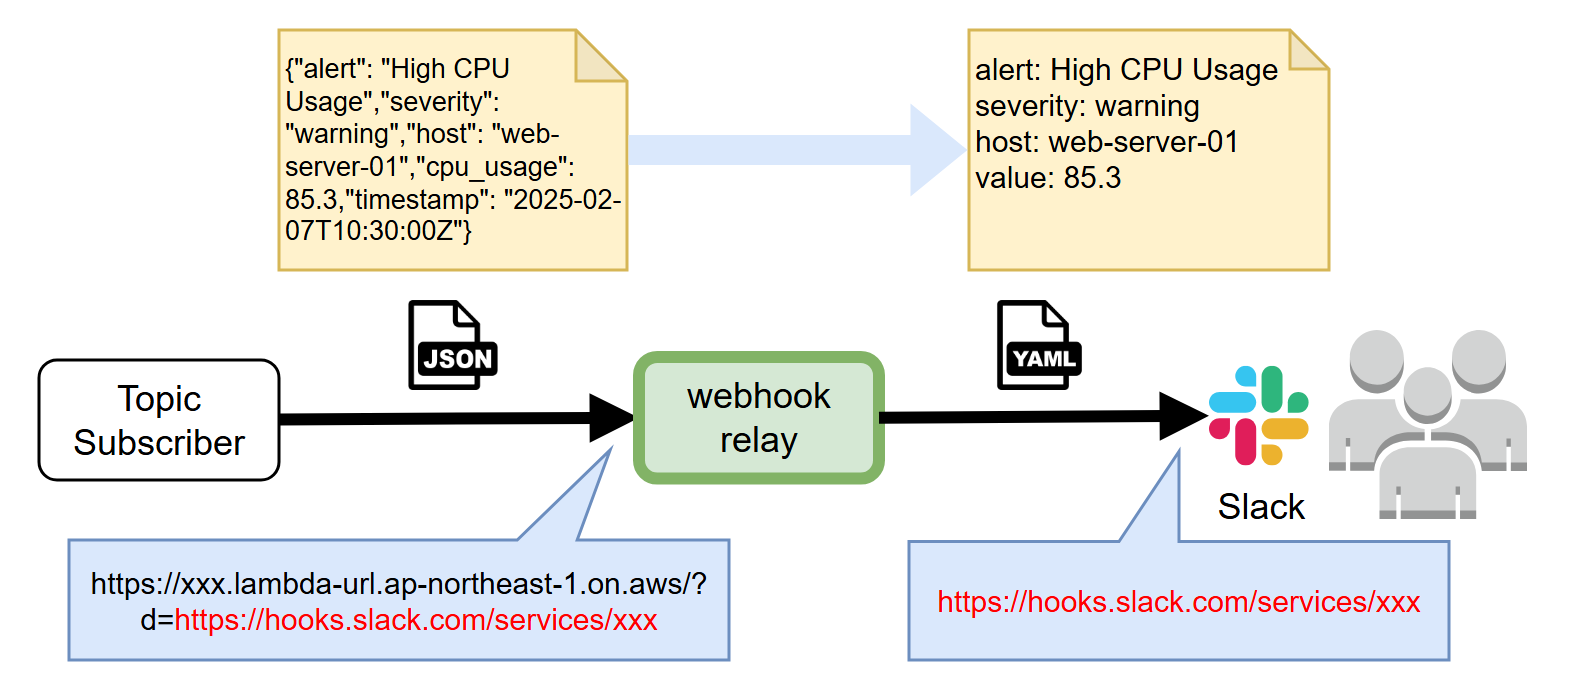
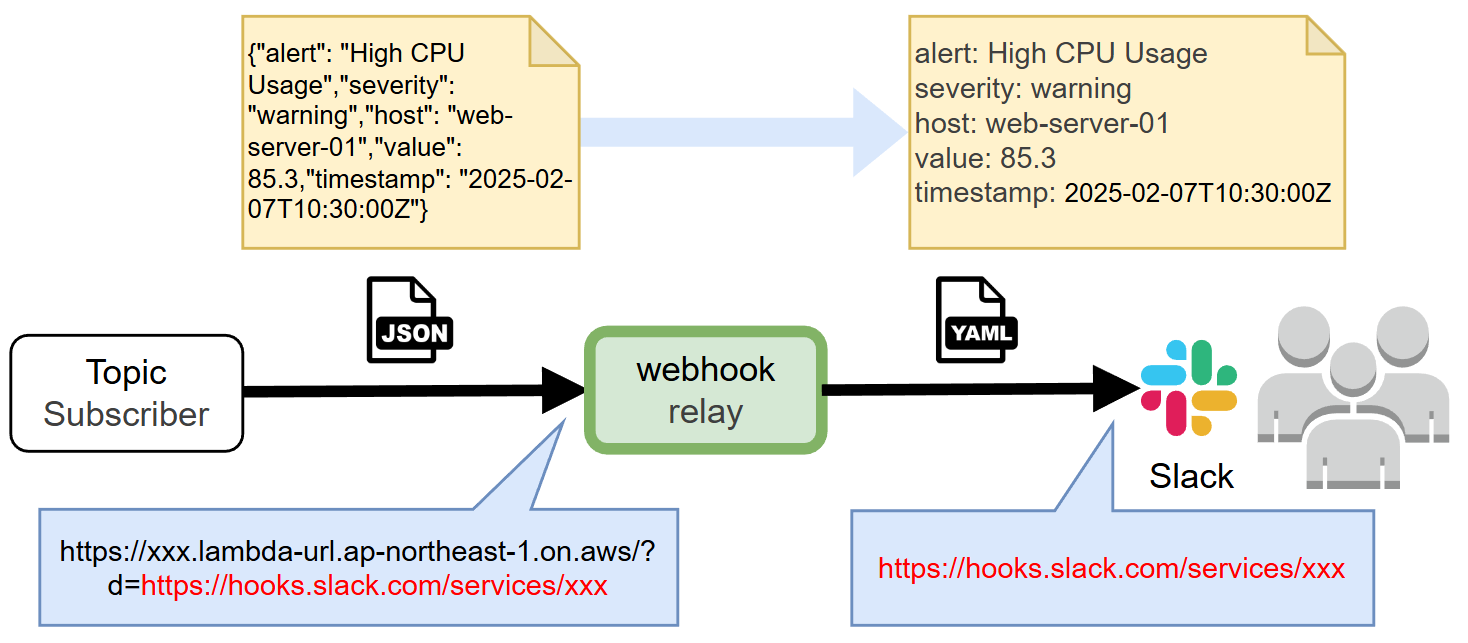
update: add mode parameter instead of simple

Changed region(s): [[0.0, 0.0, 1.0, 0.9953], [0.0, 0.7776, 0.4905, 0.9953]]

diff --git a/src/handler.js b/src/handler.js
@@ -90,14 +90,15 @@ function formatYamlForSlack(yamlContent) {
  * Create Slack message payload
  * @param {string} content - Original content
  * @param {boolean} isJson - Whether content is JSON
- * @param {boolean} simple - Simple mode (no syntax highlighting)
+ * @param {string} mode - Display mode: 'simple' (code block only), 'block' (blocks without attachment), 'attachments' (with color sidebar)
  * @returns {object} Slack payload
  */
-function createSlackPayload(content, isJson = false, simple = false) {
+function createSlackPayload(content, isJson = false, mode = "block") {
   if (isJson) {
     const yamlContent = convertJsonToYaml(content);
+
     // Simple mode: code block only
-    if (simple) {
+    if (mode === "simple") {
       return {
         text: "Alert Notification",
         blocks: [
@@ -111,43 +112,53 @@ function createSlackPayload(content, isJson = false, simple = false) {
         ],
       };
     }
-    // Normal mode: snippet-style display
+
     const formattedYaml = formatYamlForSlack(yamlContent);
-    // Display snippet-style with Attachment (color sidebar + formatting)
+    const blocks = [
+      {
+        type: "header",
+        text: {
+          type: "plain_text",
+          text: "📋 Alert Details",
+          emoji: true,
+        },
+      },
+      {
+        type: "section",
+        text: {
+          type: "mrkdwn",
+          text: formattedYaml,
+        },
+      },
+      {
+        type: "divider",
+      },
+      {
+        type: "context",
+        elements: [
+          {
+            type: "mrkdwn",
+            text: `📄 Format: YAML | ⏰ ${new Date().toISOString()}`,
+          },
+        ],
+      },
+    ];
+
+    // Block mode: blocks without attachment (no color sidebar)
+    if (mode === "block") {
+      return {
+        text: "🚨 Alert Notification",
+        blocks: blocks,
+      };
+    }
+
+    // Attachments mode: snippet-style display with color sidebar
     return {
       text: "🚨 Alert Notification",
       attachments: [
         {
           color: "#ff6b6b",
-          blocks: [
-            {
-              type: "header",
-              text: {
-                type: "plain_text",
-                text: "📋 Alert Details",
-                emoji: true,
-              },
-            },
-            {
-              type: "section",
-              text: {
-                type: "mrkdwn",
-                text: formattedYaml,
-              },
-            },
-            {
-              type: "divider",
-            },
-            {
-              type: "context",
-              elements: [
-                {
-                  type: "mrkdwn",
-                  text: `📄 Format: YAML | ⏰ ${new Date().toISOString()}`,
-                },
-              ],
-            },
-          ],
+          blocks: blocks,
         },
       ],
     };
@@ -253,12 +264,14 @@ async function handler(event) {
       };
     }
 
-    // Get simple mode flag
-    const simpleMode =
-      event.queryStringParameters?.simple === "true" ||
-      event.query?.simple === "true" ||
+    // Get mode parameter (simple, block, attachments)
+    // Default is 'block'
+    const mode =
+      event.queryStringParameters?.mode ||
+      event.query?.mode ||
       (event.rawQueryString &&
-        new URLSearchParams(event.rawQueryString).get("simple") === "true");
+        new URLSearchParams(event.rawQueryString).get("mode")) ||
+      "block";
 
     // Validate webhook URL
     if (!isValidWebhookUrl(destinationUrl)) {
@@ -293,7 +306,7 @@ async function handler(event) {
     const isJson = isJsonString(body);
 
     // Create Slack payload
-    const slackPayload = createSlackPayload(body, isJson, simpleMode);
+    const slackPayload = createSlackPayload(body, isJson, mode);
 
     // Send to Slack
     const result = await sendToSlack(destinationUrl, slackPayload);
@@ -304,7 +317,7 @@ async function handler(event) {
       body: JSON.stringify({
         message: "Successfully sent to Slack",
         converted: isJson,
-        simple: simpleMode,
+        mode: mode,
         destination: destinationUrl.split("/").slice(0, 3).join("/") + "/***",
       }),
     };

diff --git a/README-ja.md b/README-ja.md
@@ -12,9 +12,10 @@ Slack Webhook通知用のJSON→YAML変換中継API。
 ## 特徴
 
 - **JSONをYAMLに自動変換**: アラート内容の可読性を向上
-- **2つの表示モード**:
-  - **通常モード**: 色付きサイドバー + 太字キーのスニペット風表示
-  - **シンプルモード**: フォーマットなしのプレーンYAML
+- **3つの表示モード**:
+  - **block モード（デフォルト）**: 太字キーのフォーマット表示（Attachment なし）
+  - **attachments モード**: 色付きサイドバー + 太字キーのスニペット風表示
+  - **simple モード**: フォーマットなしのプレーンYAML
 - **複数Webhook対応**: クエリパラメータで送信先を動的に指定
 - **マルチクラウド**: AWS LambdaとOCI Functionsの両方にデプロイ可能
 - **Infrastructure as Code**: Terraformで完全自動化
@@ -26,7 +27,7 @@ SlackのIncoming WebhookのWebhook URLを、クエリーパラメター`d`の値
 
 ### 基本的な使用例
 
-**通常モード（スニペット風表示）:**
+**block モード（デフォルト）:**
 
 ```bash
 curl -X POST "https://api.example.com/?d=https://hooks.slack.com/services/YOUR/WEBHOOK/PATH" \
@@ -35,21 +36,36 @@ curl -X POST "https://api.example.com/?d=https://hooks.slack.com/services/YOUR/W
     "alert": "High CPU Usage",
     "severity": "warning",
     "host": "web-server-01",
-    "cpu_usage": 85.3,
+    "value": 85.3,
     "timestamp": "2025-02-07T10:30:00Z"
   }'
 ```
 
-**シンプルモード（フォーマットなし）:**
+**attachments モード（スニペット風表示）:**
 
 ```bash
-curl -X POST "https://api.example.com/?d=https://hooks.slack.com/services/YOUR/WEBHOOK/PATH&simple=true" \
+curl -X POST "https://api.example.com/?d=https://hooks.slack.com/services/YOUR/WEBHOOK/PATH&mode=attachments" \
   -H "Content-Type: application/json" \
   -d '{
     "alert": "High CPU Usage",
     "severity": "warning",
     "host": "web-server-01",
-    "cpu_usage": 85.3
+    "value": 85.3,
+    "timestamp": "2025-02-07T10:30:00Z"
+  }'
+```
+
+**simple モード（フォーマットなし）:**
+
+```bash
+curl -X POST "https://api.example.com/?d=https://hooks.slack.com/services/YOUR/WEBHOOK/PATH&mode=simple" \
+  -H "Content-Type: application/json" \
+  -d '{
+    "alert": "High CPU Usage",
+    "severity": "warning",
+    "host": "web-server-01",
+    "value": 85.3,
+    "timestamp": "2025-02-07T10:30:00Z"
   }'
 ```
 
@@ -59,17 +75,23 @@ curl -X POST "https://api.example.com/?d=https://hooks.slack.com/services/YOUR/W
 
 - レイアウトされておらず読むのが難しい
 
-  ![alt text](docs/image-default.png)
+  ![normal](docs/image-normal.png)
 
-**変換後 - 通常モード (スニペット風表示)**
+**変換後 - block モード（デフォルト）**
 
-- 通常モード: Attachmentを使ったスニペット風の表示により、キーが太字で強調され、色付きサイドバーで視認性が向上
+- フォーマット表示されたYAML（Attachment なし）
 
-  ![default](docs/image-rich.png)
+  ![block](docs/image-block.png)
 
-**変換後 - シンプルモード (`simple=true`)**
+**変換後 - attachments モード（スニペット風表示）**
 
-- シンプルモード: プレーンなYAMLをコードブロックで表示、装飾なし
+- Attachmentを使ったスニペット風の表示により、キーが太字で強調され、色付きサイドバーで視認性が向上(削除できる点に留意)
+
+  ![attachments](docs/image-attachments.png)
+
+**変換後 - simple モード**
+
+- プレーンなYAMLをコードブロックで表示、装飾なし
 
   ![simple](docs/image-simple.png)
 
@@ -146,16 +168,16 @@ POST /webhooks
 
 ### クエリパラメータ
 
-| パラメータ | 必須 | 説明                                       | 例                                             |
-| ---------- | ---- | ------------------------------------------ | ---------------------------------------------- |
-| d          | ✓    | 送信先のSlack Webhook URL                  | `https://hooks.slack.com/services/XXX/YYY/ZZZ` |
-| simple     | -    | `true`でシンプルモード（フォーマットなし） | `true` または `false`（デフォルト）            |
+| パラメータ | 必須 | 説明                      | 例                                                     |
+| ---------- | ---- | ------------------------- | ------------------------------------------------------ |
+| d          | ✓    | 送信先のSlack Webhook URL | `https://hooks.slack.com/services/XXX/YYY/ZZZ`         |
+| mode       | -    | 表示モードの指定          | `simple`, `block`, `attachments` (デフォルト: `block`) |
 
-**シンプルモード (`simple=true`)**:
+**モード説明**:
 
-- シンタックスハイライトなしのプレーンなYAMLをコードブロックで送信
-- 色付きサイドバーや太字フォーマットなし
-- 軽量でシンプルな表示
+- **`mode=simple`**: シンタックスハイライトなしのプレーンなYAMLをコードブロックで送信。色付きサイドバーや太字フォーマットなし。軽量でシンプルな表示
+- **`mode=block`** (デフォルト): フォーマット表示されたYAMLを blocks で直接表示。Attachment を使わないため軽量
+- **`mode=attachments`**: 色付きサイドバー付きスニペット風表示。太字フォーマットで視認性が高い
 
 ### リクエストボディ
 

diff --git a/README.md b/README.md
@@ -12,9 +12,10 @@ Converts JSON payloads from alert notifications into a readable YAML format and 
 ## Features
 
 - **Automatic JSON to YAML Conversion**: Improves readability of alert contents
-- **Two Display Modes**:
-  - **Normal Mode**: Color-coded sidebar + bold key snippet-style display
-  - **Simple Mode**: Plain YAML without formatting
+- **Three Display Modes**:
+  - **block Mode (Default)**: Formatted display with bold keys (no attachment)
+  - **attachments Mode**: Color-coded sidebar + bold key snippet-style display
+  - **simple Mode**: Plain YAML without formatting
 - **Multiple Webhook Support**: Dynamically specify destinations via query parameters
 - **Multi-Cloud**: Deployable to both AWS Lambda and OCI Functions
 - **Infrastructure as Code**: Fully automated with Terraform
@@ -26,7 +27,7 @@ Simply call the API with your Slack Incoming Webhook URL as the value of the que
 
 ### Basic Examples
 
-**Normal Mode (Snippet-style display):**
+**block Mode (Default):**
 
 ```bash
 curl -X POST "https://api.example.com/?d=https://hooks.slack.com/services/YOUR/WEBHOOK/PATH" \
@@ -35,21 +36,36 @@ curl -X POST "https://api.example.com/?d=https://hooks.slack.com/services/YOUR/W
     "alert": "High CPU Usage",
     "severity": "warning",
     "host": "web-server-01",
-    "cpu_usage": 85.3,
+    "value": 85.3,
     "timestamp": "2025-02-07T10:30:00Z"
   }'
 ```
 
-**Simple Mode (Unformatted):**
+**attachments Mode (Snippet-style display):**
 
 ```bash
-curl -X POST "https://api.example.com/?d=https://hooks.slack.com/services/YOUR/WEBHOOK/PATH&simple=true" \
+curl -X POST "https://api.example.com/?d=https://hooks.slack.com/services/YOUR/WEBHOOK/PATH&mode=attachments" \
   -H "Content-Type: application/json" \
   -d '{
     "alert": "High CPU Usage",
     "severity": "warning",
     "host": "web-server-01",
-    "cpu_usage": 85.3
+    "value": 85.3,
+    "timestamp": "2025-02-07T10:30:00Z"
+  }'
+```
+
+**simple Mode (Unformatted):**
+
+```bash
+curl -X POST "https://api.example.com/?d=https://hooks.slack.com/services/YOUR/WEBHOOK/PATH&mode=simple" \
+  -H "Content-Type: application/json" \
+  -d '{
+    "alert": "High CPU Usage",
+    "severity": "warning",
+    "host": "web-server-01",
+    "value": 85.3,
+    "timestamp": "2025-02-07T10:30:00Z"
   }'
 ```
 
@@ -59,17 +75,23 @@ curl -X POST "https://api.example.com/?d=https://hooks.slack.com/services/YOUR/W
 
 - Unformatted and difficult to read
 
-  ![alt text](docs/image-default.png)
+  ![normal](docs/image-normal.png)
 
-**After Conversion - Normal Mode (Snippet-style display)**
+**After Conversion - block Mode (Default)**
 
-- Normal Mode: Snippet-style display using Attachments with bold keys and color-coded sidebar for improved visibility
+- Formatted YAML display with bold keys (no attachment)
 
-  ![default](docs/image-rich.png)
+  ![block](docs/image-block.png)
 
-**After Conversion - Simple Mode (`simple=true`)**
+**After Conversion - attachments Mode (Snippet-style display)**
 
-- Simple Mode: Plain YAML displayed in code block without decoration
+- Snippet-style display using Attachments with bold keys and color-coded sidebar for improved visibility (note: can be removed if needed)
+
+  ![attachments](docs/image-attachments.png)
+
+**After Conversion - simple Mode**
+
+- Plain YAML displayed in code block without decoration
 
   ![simple](docs/image-simple.png)
 
